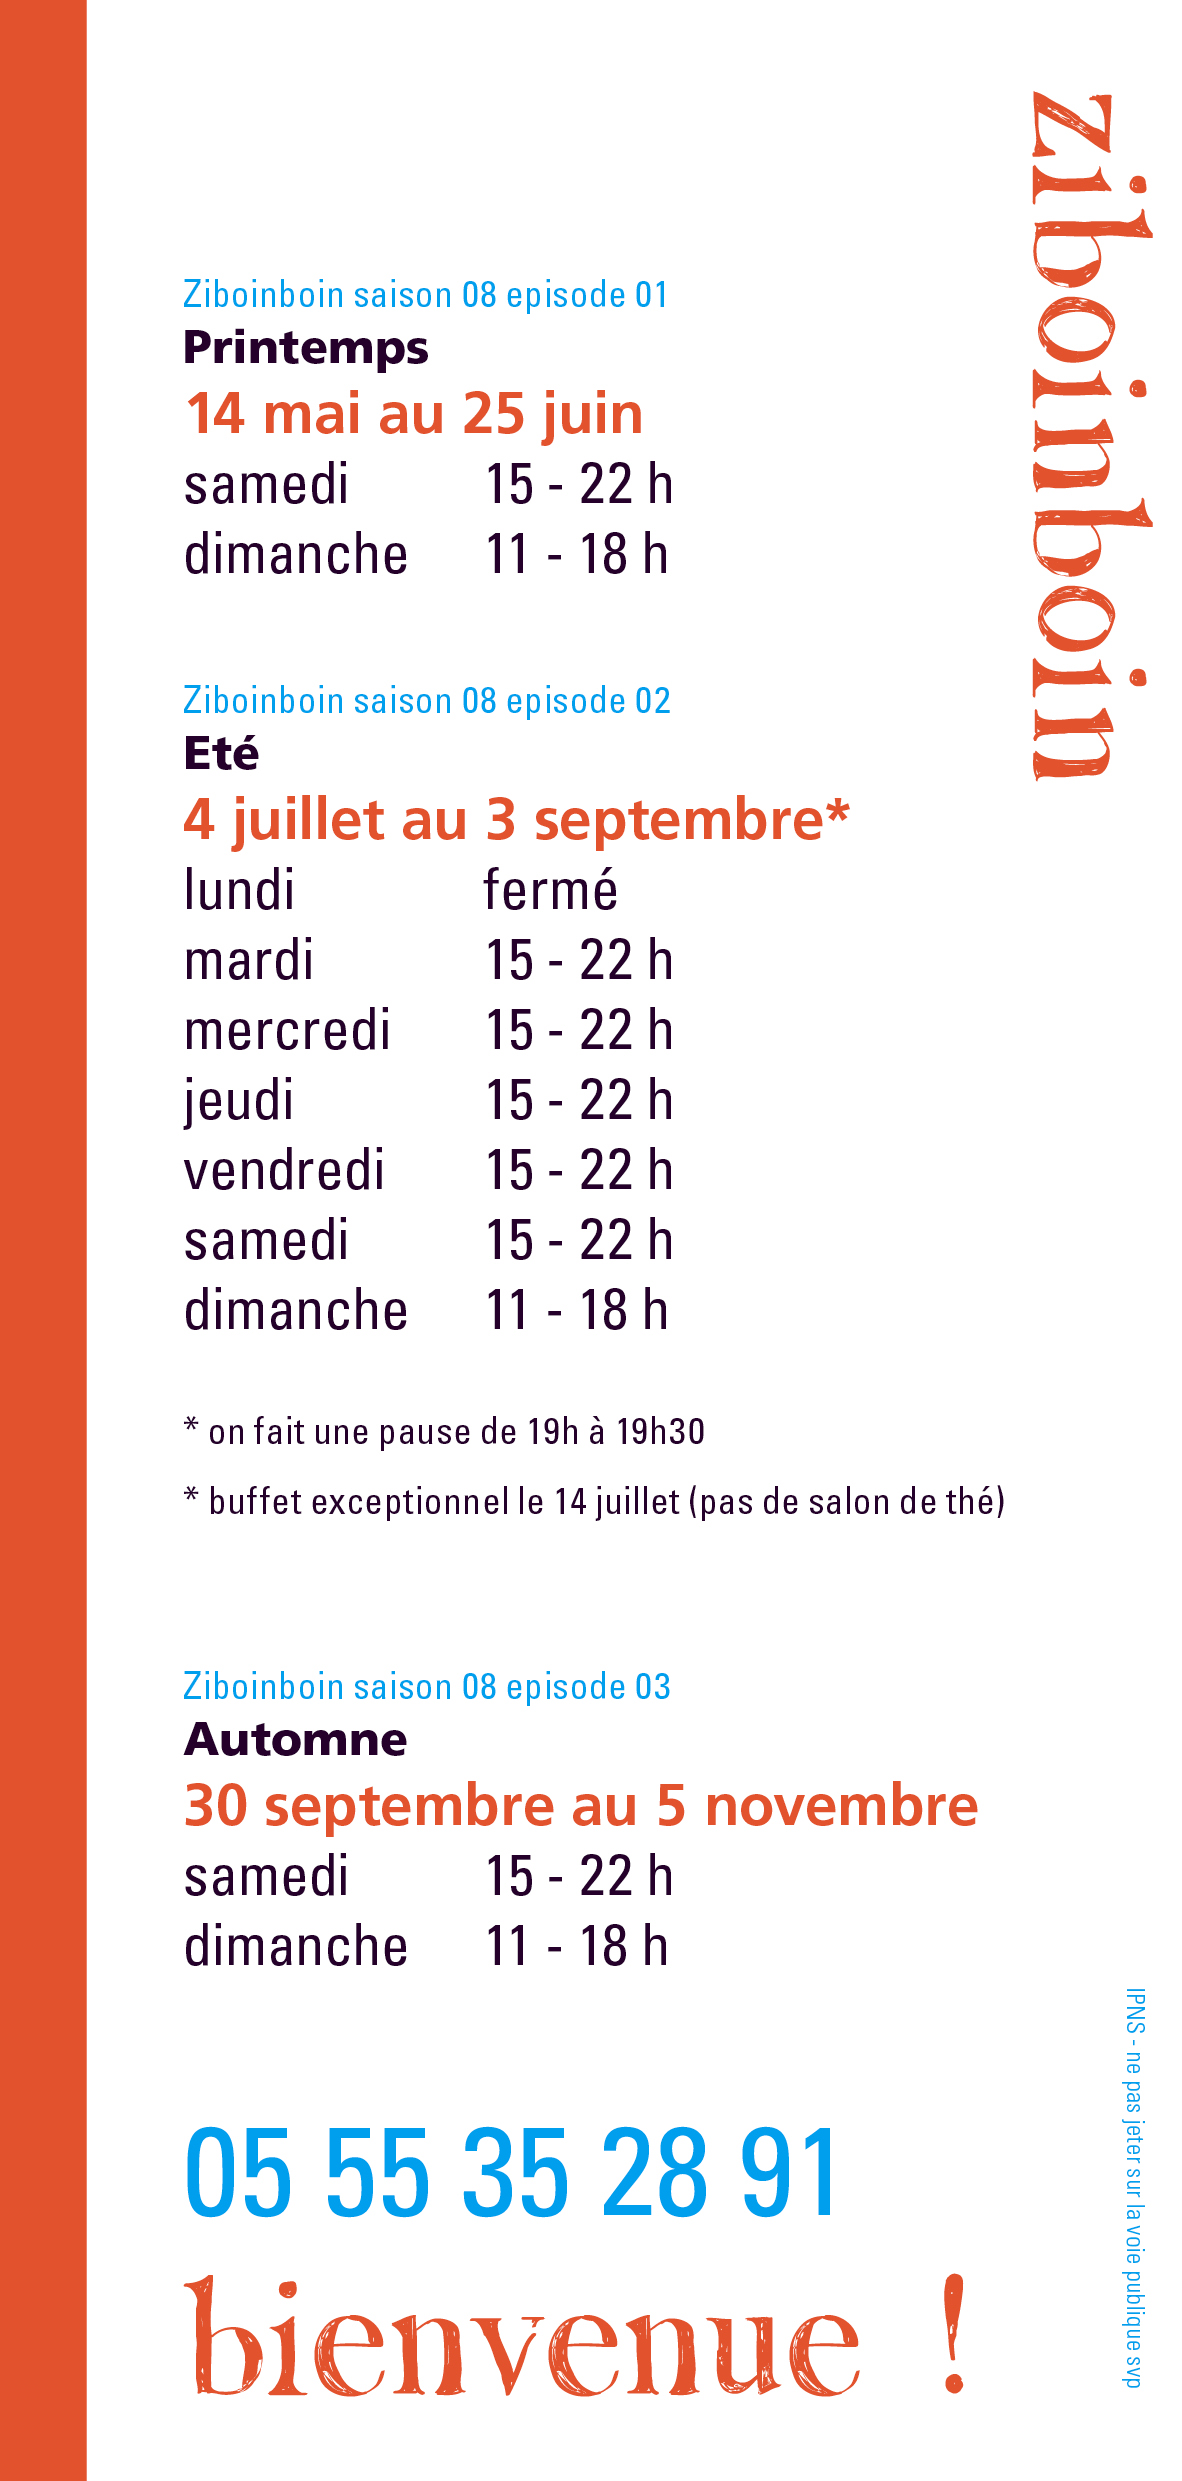
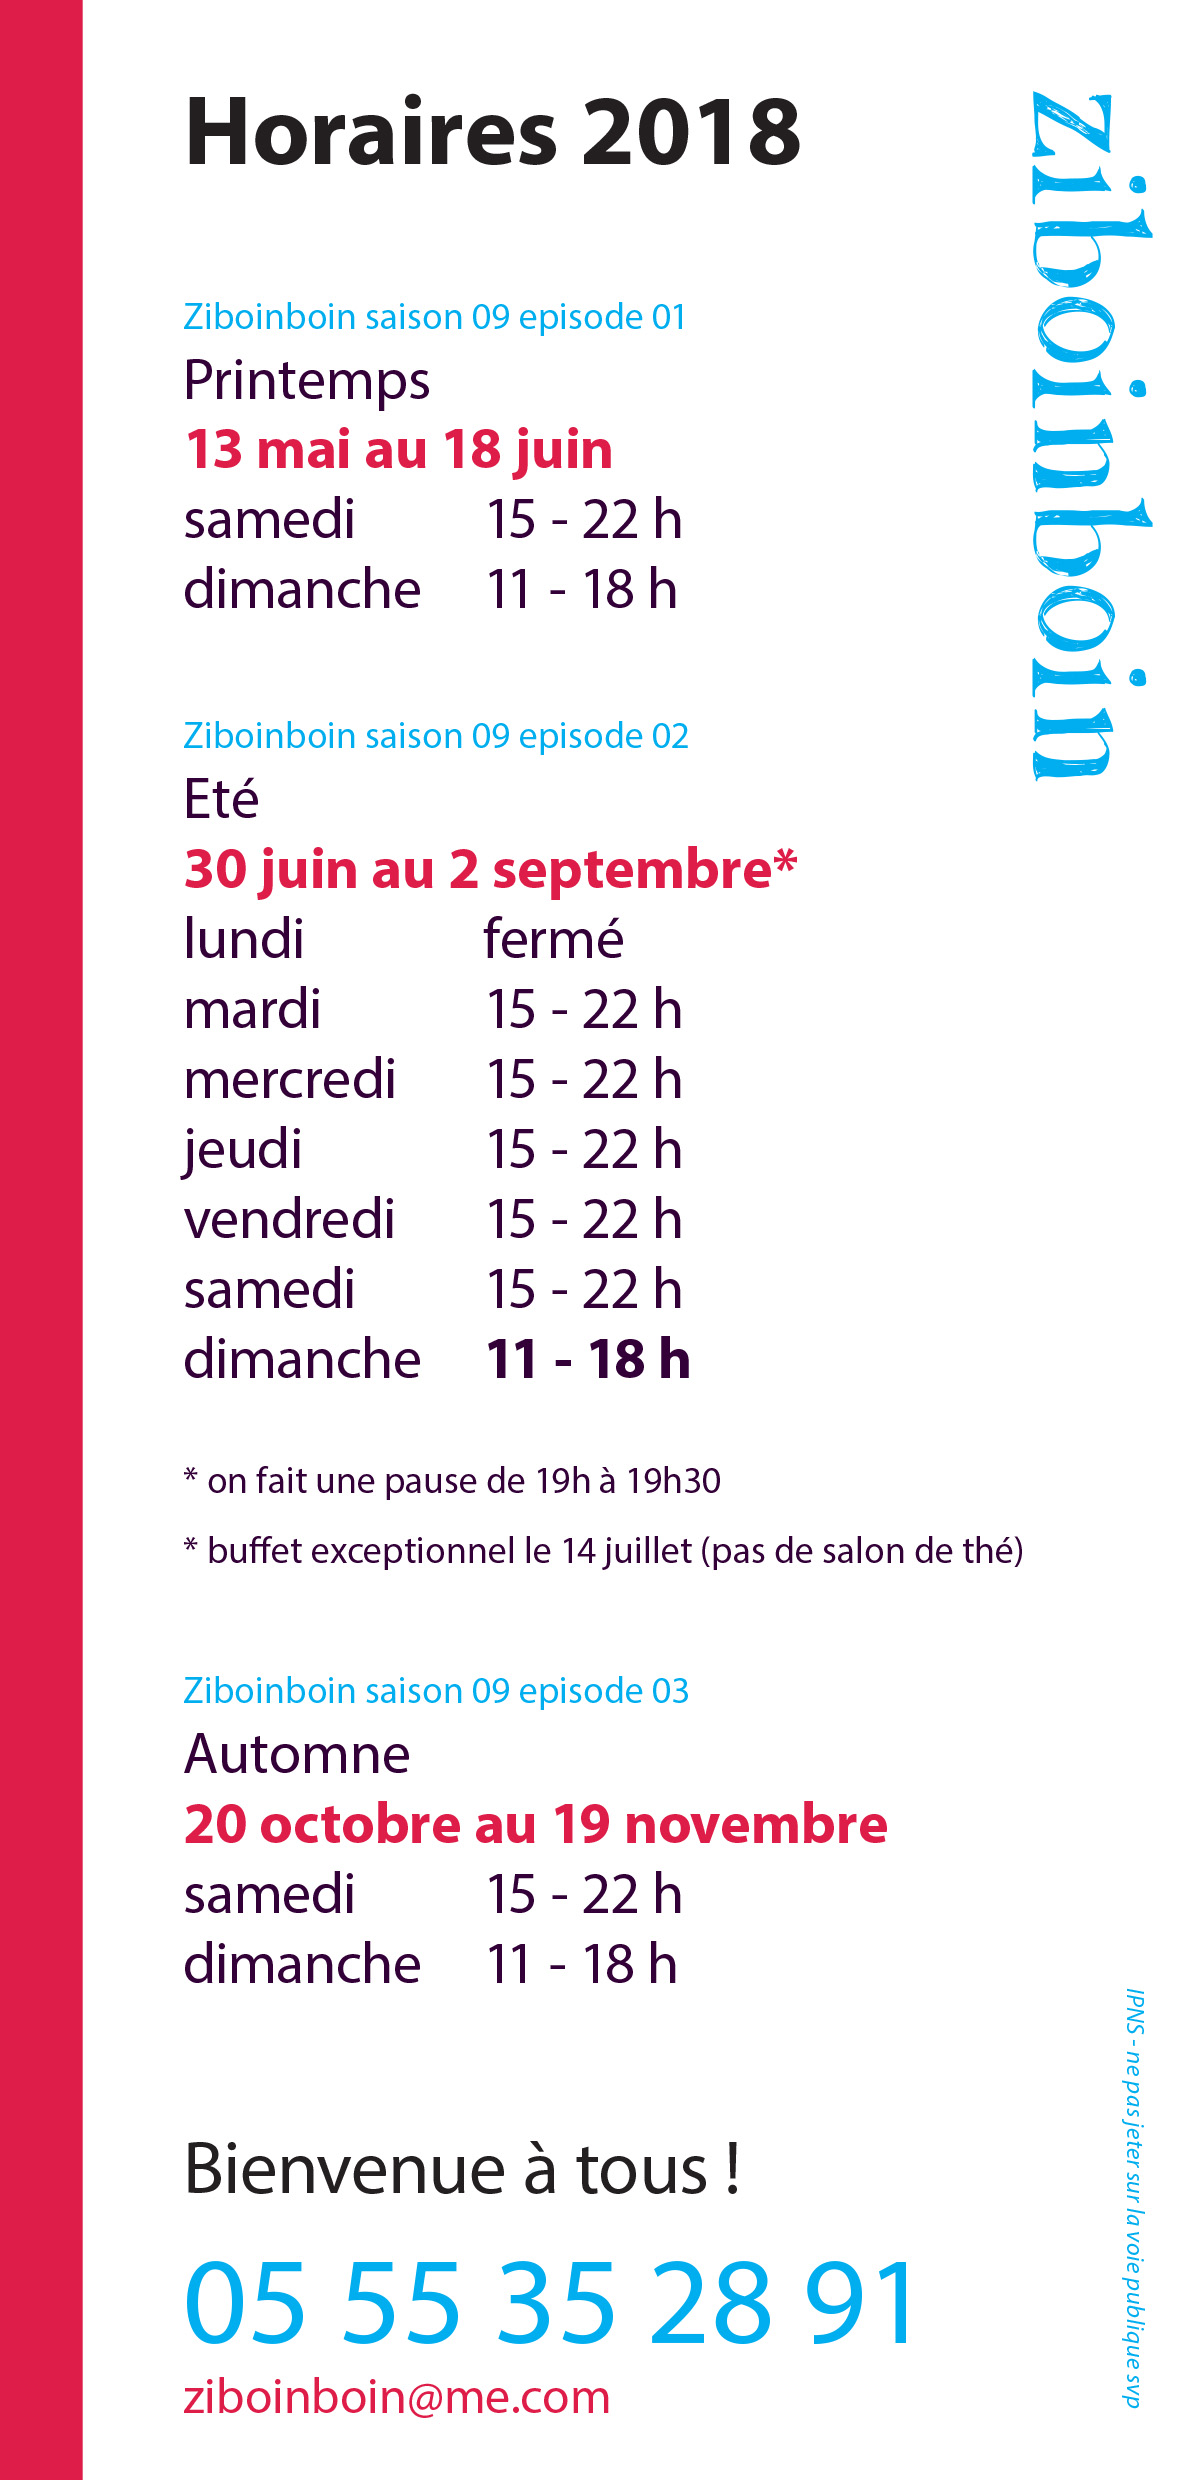
Synchronized build

diff --git a/fr/menu/index.html b/fr/menu/index.html
@@ -19,7 +19,7 @@
 <!-- Custom stylesheet -->
 <link
   rel="stylesheet"
-  href="../../static/gen/styles.css?h=d0d327c7"
+  href="../../static/gen/styles.css?h=3f7125b8"
 >
 <script
   type=text/javascript
@@ -109,7 +109,7 @@
       
   <h1 class="title">Menu</h1>
   
-    <img src="../../menu/menu-fin-saison-2017.jpg" class="img-rounded" style="max-width: 100%;">
+    <img src="../../menu/menu.jpg" class="img-rounded" style="max-width: 100%;">
   
 
     </div>

diff --git a/menu/index.html b/menu/index.html
@@ -19,7 +19,7 @@
 <!-- Custom stylesheet -->
 <link
   rel="stylesheet"
-  href="../static/gen/styles.css?h=d0d327c7"
+  href="../static/gen/styles.css?h=3f7125b8"
 >
 <script
   type=text/javascript
@@ -109,7 +109,7 @@
       
   <h1 class="title">Menu</h1>
   
-    <img src="../menu/menu-fin-saison-2017.jpg" class="img-rounded" style="max-width: 100%;">
+    <img src="../menu/menu.jpg" class="img-rounded" style="max-width: 100%;">
   
 
     </div>

diff --git a/fr/food-to-go/ajam-slomo/index.html b/fr/food-to-go/ajam-slomo/index.html
@@ -19,7 +19,7 @@
 <!-- Custom stylesheet -->
 <link
   rel="stylesheet"
-  href="../../../static/gen/styles.css?h=d0d327c7"
+  href="../../../static/gen/styles.css?h=3f7125b8"
 >
 <script
   type=text/javascript

diff --git a/fr/food-to-go/blanquette-de-veau/index.html b/fr/food-to-go/blanquette-de-veau/index.html
@@ -19,7 +19,7 @@
 <!-- Custom stylesheet -->
 <link
   rel="stylesheet"
-  href="../../../static/gen/styles.css?h=d0d327c7"
+  href="../../../static/gen/styles.css?h=3f7125b8"
 >
 <script
   type=text/javascript

diff --git a/fr/food-to-go/boeuf-belge/index.html b/fr/food-to-go/boeuf-belge/index.html
@@ -19,7 +19,7 @@
 <!-- Custom stylesheet -->
 <link
   rel="stylesheet"
-  href="../../../static/gen/styles.css?h=d0d327c7"
+  href="../../../static/gen/styles.css?h=3f7125b8"
 >
 <script
   type=text/javascript

diff --git a/fr/food-to-go/boeuf-italie/index.html b/fr/food-to-go/boeuf-italie/index.html
@@ -19,7 +19,7 @@
 <!-- Custom stylesheet -->
 <link
   rel="stylesheet"
-  href="../../../static/gen/styles.css?h=d0d327c7"
+  href="../../../static/gen/styles.css?h=3f7125b8"
 >
 <script
   type=text/javascript

diff --git a/fr/food-to-go/chicken-balti-blue/index.html b/fr/food-to-go/chicken-balti-blue/index.html
@@ -19,7 +19,7 @@
 <!-- Custom stylesheet -->
 <link
   rel="stylesheet"
-  href="../../../static/gen/styles.css?h=d0d327c7"
+  href="../../../static/gen/styles.css?h=3f7125b8"
 >
 <script
   type=text/javascript

diff --git a/fr/food-to-go/chicken-tikka/index.html b/fr/food-to-go/chicken-tikka/index.html
@@ -19,7 +19,7 @@
 <!-- Custom stylesheet -->
 <link
   rel="stylesheet"
-  href="../../../static/gen/styles.css?h=d0d327c7"
+  href="../../../static/gen/styles.css?h=3f7125b8"
 >
 <script
   type=text/javascript

diff --git a/fr/food-to-go/porc-au-cidre/index.html b/fr/food-to-go/porc-au-cidre/index.html
@@ -19,7 +19,7 @@
 <!-- Custom stylesheet -->
 <link
   rel="stylesheet"
-  href="../../../static/gen/styles.css?h=d0d327c7"
+  href="../../../static/gen/styles.css?h=3f7125b8"
 >
 <script
   type=text/javascript

diff --git a/fr/food-to-go/porc-sauce-soja/index.html b/fr/food-to-go/porc-sauce-soja/index.html
@@ -19,7 +19,7 @@
 <!-- Custom stylesheet -->
 <link
   rel="stylesheet"
-  href="../../../static/gen/styles.css?h=d0d327c7"
+  href="../../../static/gen/styles.css?h=3f7125b8"
 >
 <script
   type=text/javascript

diff --git a/fr/food-to-go/poulet-du-sud/index.html b/fr/food-to-go/poulet-du-sud/index.html
@@ -19,7 +19,7 @@
 <!-- Custom stylesheet -->
 <link
   rel="stylesheet"
-  href="../../../static/gen/styles.css?h=d0d327c7"
+  href="../../../static/gen/styles.css?h=3f7125b8"
 >
 <script
   type=text/javascript

diff --git a/fr/food-to-go/veau-marengo/index.html b/fr/food-to-go/veau-marengo/index.html
@@ -19,7 +19,7 @@
 <!-- Custom stylesheet -->
 <link
   rel="stylesheet"
-  href="../../../static/gen/styles.css?h=d0d327c7"
+  href="../../../static/gen/styles.css?h=3f7125b8"
 >
 <script
   type=text/javascript
